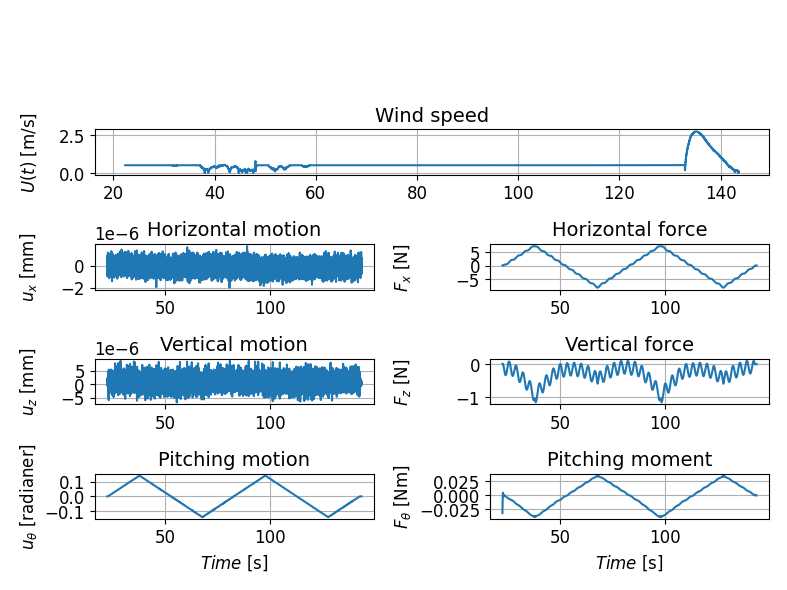
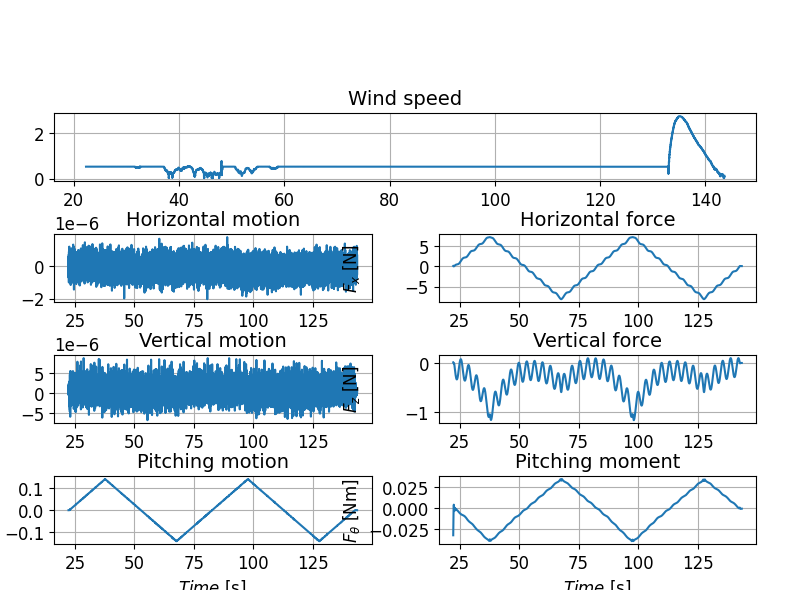
debugge

diff --git a/HAR_INT/static_coeff.py b/HAR_INT/static_coeff.py
@@ -104,15 +104,15 @@ exp0_single, exp1_single_6 = load_experiments_from_hdf5(h5_input_path, section_n
 exp0_single, exp1_single_9= load_experiments_from_hdf5(h5_input_path, section_name, file_names_9,  upwind_in_rig=True)
 
 exp0_single.plot_experiment(mode="total") #
-plt.gcf().suptitle(f"Single deck - Wind speed: 0 m/s",  y=1.03)
+plt.gcf().suptitle(f"Single deck - Wind speed: 0 m/s",  y=1.01)
 plt.savefig(os.path.join(r"C:\Users\liner\Documents\Github\Masteroppgave\HAR_INT\Plots\static\tidsserier", section_name + "_0" + ".png"))
 
 exp1_single_6.plot_experiment(mode="total") #
-plt.gcf().suptitle(f"Single deck - Wind speed: 6 m/s",  y=1.03)
+plt.gcf().suptitle(f"Single deck - Wind speed: 6 m/s",  y=1.01)
 plt.savefig(os.path.join(r"C:\Users\liner\Documents\Github\Masteroppgave\HAR_INT\Plots\static\tidsserier", section_name + "_6" + ".png"))
 
 exp1_single_9.plot_experiment(mode="total") #
-plt.gcf().suptitle(f"Single deck - Wind speed: 9 m/s",  y=1.03)
+plt.gcf().suptitle(f"Single deck - Wind speed: 9 m/s",  y=1.01)
 plt.savefig(os.path.join(r"C:\Users\liner\Documents\Github\Masteroppgave\HAR_INT\Plots\static\tidsserier", section_name + "_9" + ".png"))
 
 exp0_single.filt_forces(6, 2)
@@ -120,13 +120,13 @@ exp1_single_6.filt_forces(6, 2)
 exp1_single_9.filt_forces(6, 2)
 
 exp0_single.plot_experiment(mode="total") #With Butterworth low-pass filter
-plt.gcf().suptitle(f"Single deck - Wind speed: 0 m/s - With Butterworth low-pass filter",  y=1.1)
+plt.gcf().suptitle(f"Single deck - Wind speed: 0 m/s - With Butterworth low-pass filter",  y=1.01)
 plt.savefig(os.path.join(r"C:\Users\liner\Documents\Github\Masteroppgave\HAR_INT\Plots\static\tidsserier", section_name + "_0_filter" + ".png"))
 exp1_single_6.plot_experiment(mode="total") #With Butterworth low-pass filter
-plt.gcf().suptitle(f"Single deck - Wind speed: 6 m/s - With Butterworth low-pass filter",  y=1.1)
+plt.gcf().suptitle(f"Single deck - Wind speed: 6 m/s - With Butterworth low-pass filter",  y=1.01)
 plt.savefig(os.path.join(r"C:\Users\liner\Documents\Github\Masteroppgave\HAR_INT\Plots\static\tidsserier", section_name + "_6_filter" + ".png"))
 exp1_single_9.plot_experiment(mode="total") #With Butterworth low-pass filter
-plt.gcf().suptitle(f"Single deck - Wind speed: 9 m/s - With Butterworth low-pass filter",  y=1.1)
+plt.gcf().suptitle(f"Single deck - Wind speed: 9 m/s - With Butterworth low-pass filter",  y=1.01)
 plt.savefig(os.path.join(r"C:\Users\liner\Documents\Github\Masteroppgave\HAR_INT\Plots\static\tidsserier", section_name + "_9_filter" + ".png"))
 plt.show()
 

diff --git a/w3tp/w3t/_exp.py b/w3tp/w3t/_exp.py
@@ -648,7 +648,7 @@ class Experiment:
             axs[6].set_xlabel(r"$Time$ [s]")
             #axs[6].legend()
             
-            #fig.tight_layout(rect=[0, 0, 1, 0.85])
+            fig.tight_layout(rect=[0, 0, 1, 0.90])
 
         
 
